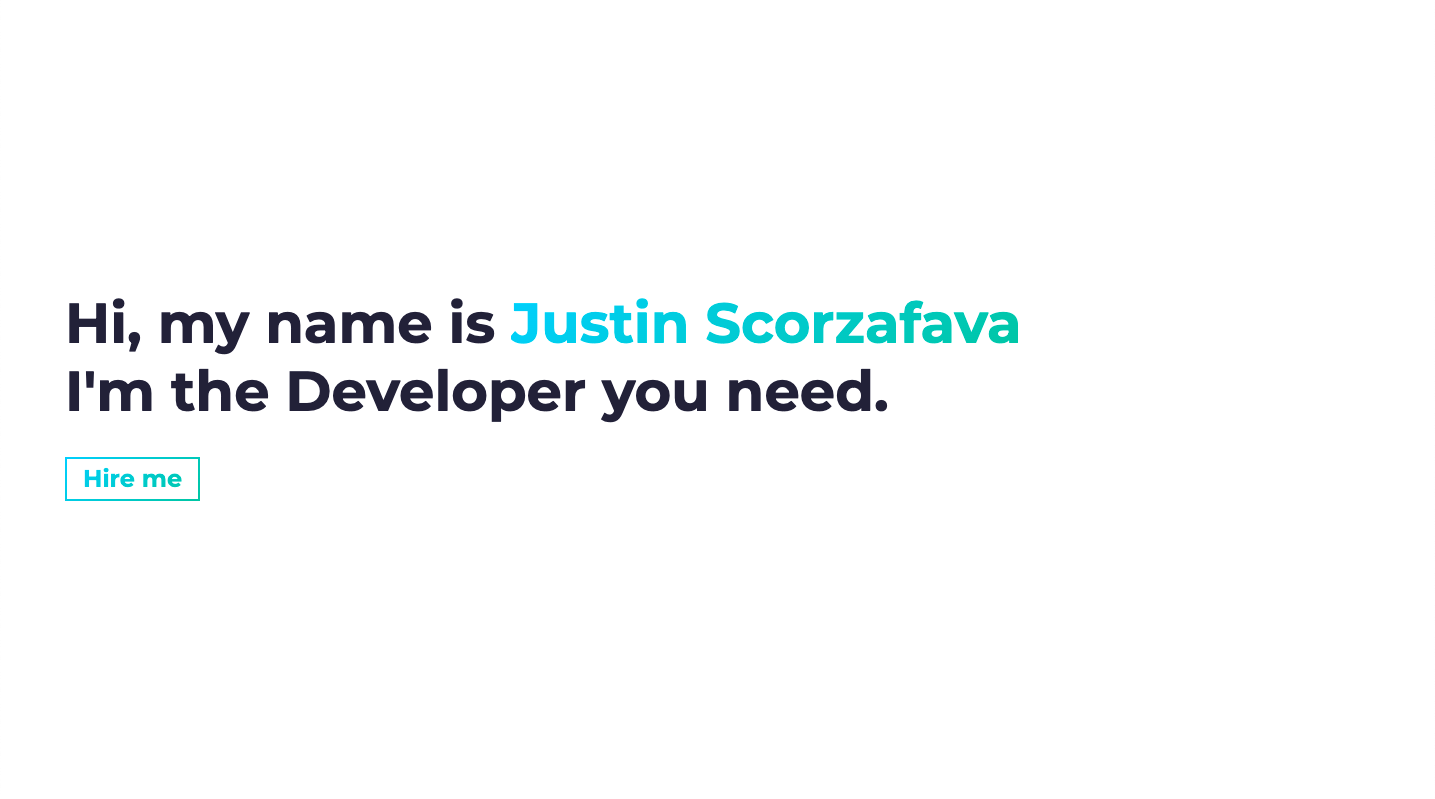
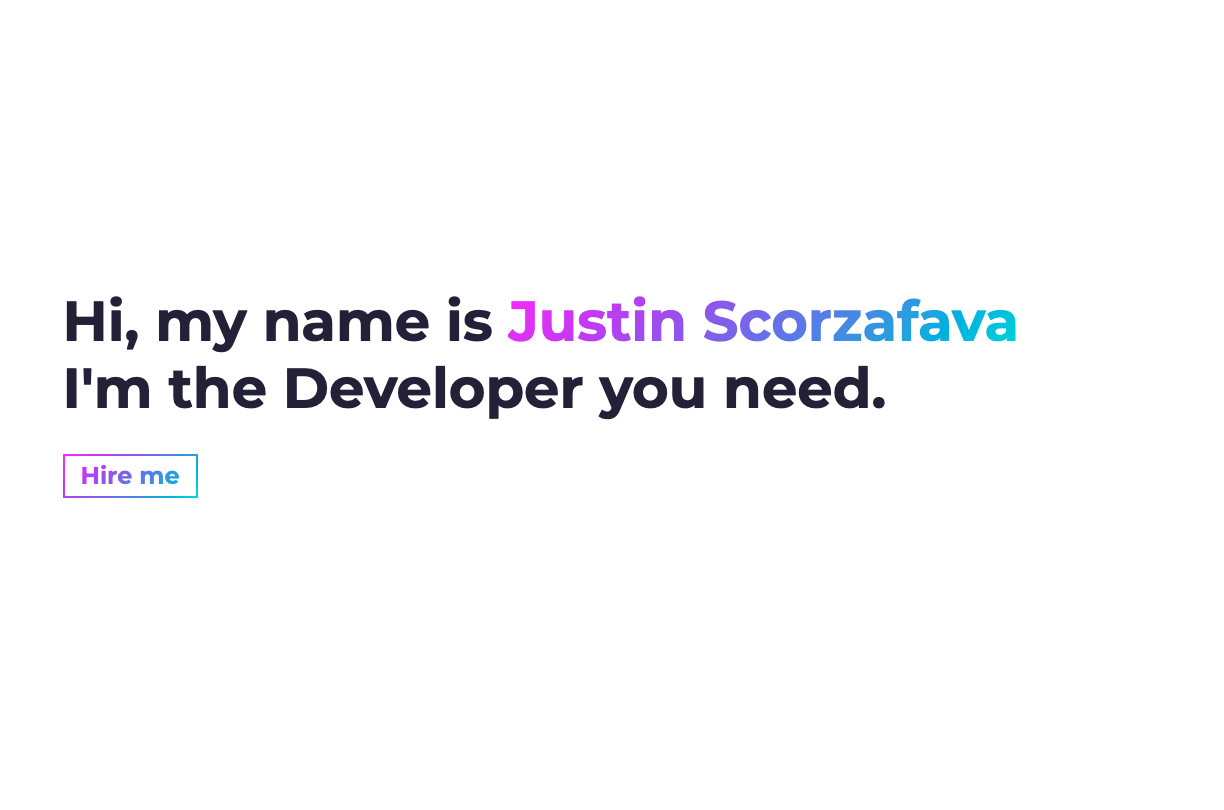
changed gradient and added new screenshots

Changed region(s): [[0.031, 0.3605, 0.8382, 0.5407], [0.031, 0.5407, 0.1552, 0.6308]]

diff --git a/src/sass/abstracts/_variables.scss b/src/sass/abstracts/_variables.scss
@@ -1,7 +1,7 @@
 // COLORS
 
-$primary-color: #00d2ff;
-$secondary-color: #00cdac;
+$primary-color: #fc00ff;
+$secondary-color: #00dbde;
 
 $white-color: #fff;
 
